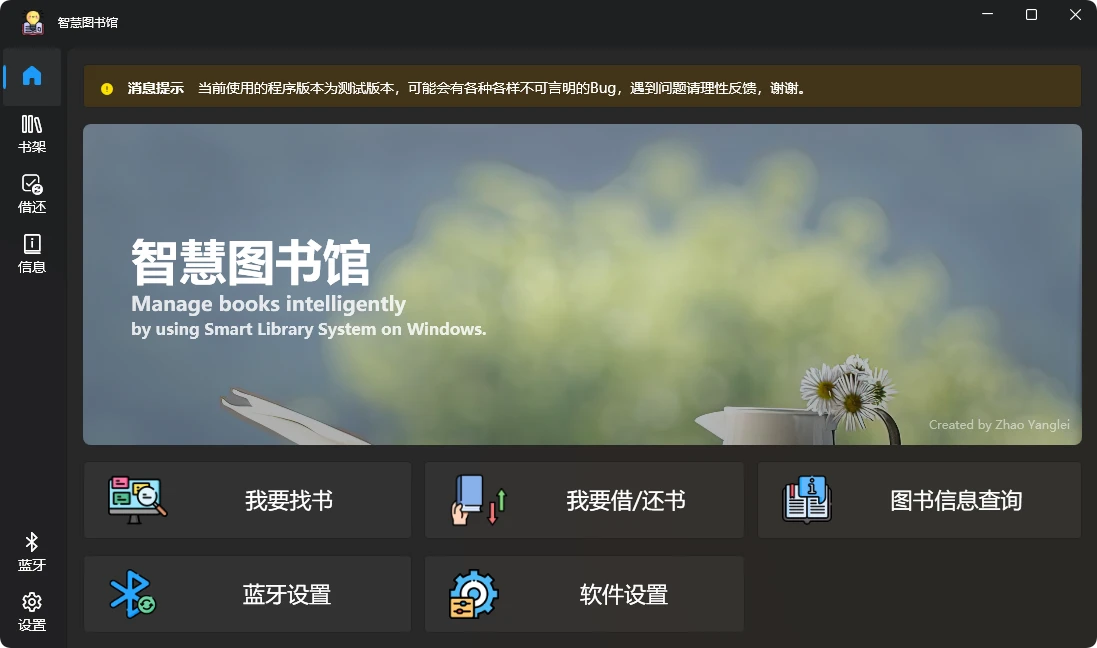
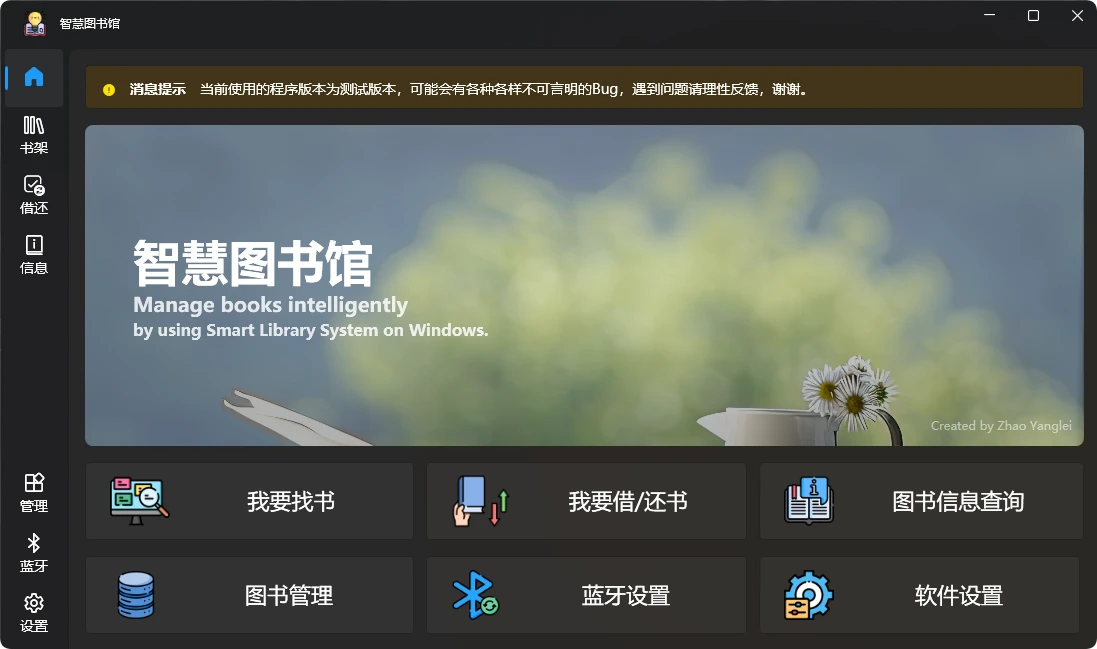
数据库完善

diff --git a/SmartLibrary/Views/Pages/BookManage.xaml b/SmartLibrary/Views/Pages/BookManage.xaml
@@ -117,6 +117,10 @@
                     <Setter Property="Background" Value="#FF6A4FBB" />
                     <Setter Property="Foreground" Value="#FFBDBDBD" />
                 </Trigger>
+                <Trigger Property="IsEnabled" Value="False">
+                    <Setter Property="Background" Value="#FF3B1B98" />
+                    <Setter Property="Foreground" Value="{DynamicResource TextFillColorDisabledBrush}" />
+                </Trigger>
             </Style.Triggers>
         </Style>
         <Style
@@ -173,11 +177,12 @@
             <ui:AutoSuggestBox
                 Grid.Column="0"
                 VerticalAlignment="Center"
+                IsEnabled="{Binding ViewModel.IsDBEnabled, Mode=OneWay}"
                 PlaceholderText="快速查找" />
             <ui:Button
                 Grid.Column="1"
                 Height="35"
-                Margin="8,0,0,0"
+                Margin="10,0,0,0"
                 VerticalAlignment="Center"
                 Command="{Binding ViewModel.TopButtonClickCommand, Mode=OneWay}"
                 CommandParameter="Import"
@@ -187,18 +192,20 @@
             <ui:Button
                 Grid.Column="2"
                 Height="35"
-                Margin="8,0,0,0"
+                Margin="10,0,0,0"
                 VerticalAlignment="Center"
                 Command="{Binding ViewModel.TopButtonClickCommand, Mode=OneWay}"
                 CommandParameter="Export"
                 Content="导出"
                 FontSize="18"
+                IsEnabled="{Binding ViewModel.IsDBEnabled, Mode=OneWay}"
                 ToolTip="导出数据库" />
             <ui:Button
                 x:Name="AddButton"
                 Grid.Column="3"
                 Margin="8,0,0,0"
                 Command="{Binding ViewModel.AddBookCommand, Mode=OneWay}"
+                IsEnabled="{Binding ViewModel.IsDBEnabled, Mode=OneWay}"
                 Style="{StaticResource AddButton}"
                 ToolTip="添加图书" />
             <ui:Button
@@ -311,6 +318,63 @@
                 </DataGridTemplateColumn>
             </ui:DataGrid.Columns>
         </ui:DataGrid>
+        <Grid Grid.Row="1" Visibility="{Binding ViewModel.MissingDatabase, Mode=OneWay, Converter={StaticResource BooleanToVisibilityConverter}}">
+            <StackPanel
+                Margin="0,0,0,20"
+                HorizontalAlignment="Center"
+                VerticalAlignment="Center">
+                <ui:Image
+                    Grid.Row="0"
+                    Width="168"
+                    Height="168"
+                    RenderOptions.BitmapScalingMode="HighQuality"
+                    Source="pack://application:,,,/Assets/warning.png" />
+                <ui:TextBlock
+                    Grid.Row="1"
+                    HorizontalAlignment="Center"
+                    FontSize="36"
+                    FontTypography="Title"
+                    Foreground="{DynamicResource TextFillColorSecondaryBrush}"
+                    Text="糟糕！数据库找不到了w(ﾟДﾟ)w" />
+                <StackPanel
+                    Margin="0,16,0,0"
+                    HorizontalAlignment="Center"
+                    Orientation="Horizontal">
+                    <ui:Button
+                        MinWidth="180"
+                        Margin="0,0,8,0"
+                        Command="{Binding ViewModel.RefreshDatabaseCommand, Mode=OneWay}"
+                        Content="刷新"
+                        FontSize="24" />
+                    <ui:Button
+                        MinWidth="180"
+                        Margin="8,0,0,0"
+                        Command="{Binding ViewModel.CreateDatabaseCommand, Mode=OneWay}"
+                        Content="新建"
+                        FontSize="24" />
+                </StackPanel>
+            </StackPanel>
+        </Grid>
+        <Grid Grid.Row="1" Visibility="{Binding ViewModel.DatabaseEmpty, Mode=OneWay, Converter={StaticResource BooleanToVisibilityConverter}}">
+            <StackPanel
+                Margin="0,0,0,8"
+                HorizontalAlignment="Center"
+                VerticalAlignment="Center">
+                <ui:Image
+                    Grid.Row="0"
+                    Width="148"
+                    Height="148"
+                    RenderOptions.BitmapScalingMode="HighQuality"
+                    Source="pack://application:,,,/Assets/databaseEmpty.png" />
+                <ui:TextBlock
+                    Grid.Row="1"
+                    Margin="0,12,0,0"
+                    FontSize="36"
+                    FontTypography="Title"
+                    Foreground="{DynamicResource TextFillColorSecondaryBrush}"
+                    Text="什么都没有┑(￣Д ￣)┍" />
+            </StackPanel>
+        </Grid>
         <Grid Grid.Row="2" Margin="0,12,0,0">
             <Grid.ColumnDefinitions>
                 <ColumnDefinition Width="*" />
@@ -349,6 +413,7 @@
                     Margin="4,0,4,0"
                     HorizontalAlignment="Center"
                     VerticalAlignment="Center"
+                    IsEnabled="{Binding ViewModel.IsTextboxEnabled, Mode=OneWay}"
                     ItemsSource="{Binding ViewModel.PageCountList, Mode=OneTime}"
                     SelectedIndex="{Binding ViewModel.CurrentIndex, Mode=TwoWay}" />
                 <ui:TextBlock
@@ -423,6 +488,7 @@
                     Height="32"
                     Margin="4,0,4,0"
                     InputMethod.IsInputMethodEnabled="False"
+                    IsEnabled="{Binding ViewModel.IsTextboxEnabled, Mode=OneWay}"
                     PreviewKeyDown="TextBox_PreviewKeyDown"
                     PreviewTextInput="Text_PreviewTextInput"
                     Text="{Binding ViewModel.TargetPage, Mode=TwoWay, UpdateSourceTrigger=PropertyChanged}" />

diff --git a/SmartLibrary/ViewModels/BookManageViewModel.cs b/SmartLibrary/ViewModels/BookManageViewModel.cs
@@ -17,8 +17,17 @@ namespace SmartLibrary.ViewModels
         private readonly INavigationService _navigationService;
         private readonly ISnackbarService _snackbarService;
         private readonly IContentDialogService _contentDialogService;
-        private readonly SQLiteHelper BooksDb = SQLiteHelper.GetDatabase("books.smartlibrary");
+        private SQLiteHelper BooksDb = SQLiteHelper.GetDatabase("books.smartlibrary");
         private int TotalPageCount;
+
+        [ObservableProperty]
+        private bool _missingDatabase = false;
+        [ObservableProperty]
+        private bool _databaseEmpty = false;
+        [ObservableProperty]
+        private bool _isDBEnabled = true;
+        [ObservableProperty]
+        private bool _isTextboxEnabled = true;
 
         [ObservableProperty]
         private bool _isDelButtonEnabled = false;
@@ -69,13 +78,40 @@ namespace SmartLibrary.ViewModels
             }
             else
             {
-
+                MissingDatabase = true;
+                IsDBEnabled = false;
+                IsTextboxEnabled = false;
             }
         }
 
         ~BookManageViewModel()
         {
             BooksDb.ExecutePagerCompleted -= ExecutePagerCompleted;
+        }
+
+        [RelayCommand]
+        private void RefreshDatabase()
+        {
+            BooksDb = SQLiteHelper.GetDatabase("books.smartlibrary");
+            if (SQLiteHelper.IsDatabaseConnected("books.smartlibrary"))
+            {
+                MissingDatabase = false;
+                IsDBEnabled = true;
+                BooksDb.ExecutePagerCompleted += ExecutePagerCompleted;
+                Refresh();
+                Pager();
+            }
+        }
+
+        [RelayCommand]
+        private void CreateDatabase()
+        {
+            BooksDb.CreateDataBase();
+            BooksDb = SQLiteHelper.GetDatabase("books.smartlibrary");
+            MissingDatabase = false;
+            IsDBEnabled = true;
+            BooksDb.ExecutePagerCompleted += ExecutePagerCompleted;
+            Refresh();
         }
 
         [RelayCommand]
@@ -98,6 +134,18 @@ namespace SmartLibrary.ViewModels
         private void Refresh()
         {
             TotalCount = BooksDb.GetRecordCount();
+            if (TotalCount == 0)
+            {
+                DatabaseEmpty = true;
+                IsTextboxEnabled = false;
+                TotalPageCount = 0;
+                return;
+            }
+            else
+            {
+                DatabaseEmpty = false;
+                IsTextboxEnabled = true;
+            }
             TotalPageCount = TotalCount / PageCountList[CurrentIndex] + ((TotalCount % PageCountList[CurrentIndex]) == 0 ? 0 : 1);
             if (CurrentPage > TotalPageCount) CurrentPage = TotalPageCount;
             if (TotalPageCount == 1) { IsPageUpEnabled = false; IsPageDownEnabled = false; return; }
@@ -173,6 +221,10 @@ namespace SmartLibrary.ViewModels
                 };
                 if (openFileDialog.ShowDialog() == true)
                 {
+                    if (!SQLiteHelper.IsDatabaseConnected("books.smartlibrary"))
+                    {
+                        CreateDatabase();
+                    }
                     int[] mergedResult = [0, 0];
                     string[] fileNames = openFileDialog.FileNames;
                     foreach (string fileName in fileNames)
@@ -283,17 +335,17 @@ namespace SmartLibrary.ViewModels
         {
             if (value > TotalPageCount)
             {
-                TargetPage = TotalPageCount;
-                FlyoutText = "输入页码超过最大页码！";
+                FlyoutText = $"输入页码超过最大页码！";
                 IsFlyoutOpen = true;
+                TargetPage = TotalPageCount;
             }
             else if (value == 0)
             {
-                TargetPage = 1;
                 FlyoutText = "最小页码为 1 ";
                 IsFlyoutOpen = true;
+                TargetPage = 1;
             }
-            else
+            else if (value > 0 && value < TotalPageCount)
             {
                 if (IsFlyoutOpen)
                 {

diff --git a/SmartLibrary/Helpers/Database.cs b/SmartLibrary/Helpers/Database.cs
@@ -61,8 +61,32 @@ namespace SmartLibrary.Helpers
         public void CreateDataBase()
         {
             string? path = Path.GetDirectoryName(DataSource);
-            if ((!string.IsNullOrWhiteSpace(path)) && (!Directory.Exists(path))) Directory.CreateDirectory(path);
-            if (!File.Exists(DataSource)) SQLiteConnection.CreateFile(DataSource);
+            if ((!string.IsNullOrWhiteSpace(path)) && (!Directory.Exists(path)))
+            {
+                Directory.CreateDirectory(path);
+            }
+            if (!File.Exists(DataSource))
+            {
+                SQLiteConnection.CreateFile(DataSource);
+                StringBuilder sbr = new();
+                sbr.AppendLine("CREATE TABLE IF NOT EXISTS 'main' (");
+                sbr.AppendLine("'isbn' TEXT PRIMARY KEY NOT NULL,");
+                sbr.AppendLine("'bookName' TEXT NOT NULL,");
+                sbr.AppendLine("'author' TEXT,");
+                sbr.AppendLine("'press' TEXT,");
+                sbr.AppendLine("'pressDate' TEXT,");
+                sbr.AppendLine("'pressPlace' TEXT,");
+                sbr.AppendLine("'price' INTEGER,");
+                sbr.AppendLine("'clcName' TEXT,");
+                sbr.AppendLine("'bookDesc' TEXT,");
+                sbr.AppendLine("'pages' TEXT,");
+                sbr.AppendLine("'words' TEXT,");
+                sbr.AppendLine("'shelfNumber' INTEGER NOT NULL,");
+                sbr.AppendLine("'isBorrowed' INTEGER NOT NULL DEFAULT 0,");
+                sbr.AppendLine("'picture' TEXT");
+                sbr.AppendLine(");");
+                ExecuteNonQuery(sbr.ToString());
+            }
         }
 
         /// <summary>
@@ -345,7 +369,7 @@ namespace SmartLibrary.Helpers
                 if (!Exists(isbn))
                 {
                     //string sqlStr = "INSERT INTO main VALUES (\"@isbn\",\"@bookName\",\"@author\",\"@press\",\"@pressDate\",\"@pressPlace\",@price,\"@clcName\",\"@bookDesc\",\"@pages\",\"@words\",@shelfNumber,@isBorrowed,\"@picture\")";
-                    string sqlStr = $"INSERT INTO main VALUES (\"{isbn}\",\"{reader.GetString(1)}\",\"{reader.GetString(2)}\",\"{reader.GetString(3)}\",\"{reader.GetString(4)}\",\"{reader.GetString(5)}\",@price,\"{reader.GetString(7)}\",\"{reader.GetString(8)}\",\"{reader.GetString(9)}\",\"{reader.GetString(10)}\",@shelfNumber,@isBorrowed,\"{reader.GetValue(13)}\")";
+                    string sqlStr = $"INSERT INTO main VALUES ('{isbn}','{reader.GetString(1)}','{reader.GetString(2)}','{reader.GetString(3)}','{reader.GetString(4)}','{reader.GetString(5)}',@price,'{reader.GetString(7)}','{reader.GetString(8)}','{reader.GetString(9)}','{reader.GetString(10)}',@shelfNumber,@isBorrowed,'{reader.GetValue(13)}')";
 
                     SQLiteParameter[] parameters = [
                         new SQLiteParameter("@price", reader.GetDouble(6)),

diff --git a/SmartLibrary/AssemblyInfo.cs b/SmartLibrary/AssemblyInfo.cs
@@ -1,3 +1,1 @@
-using System.Reflection;
-
 [assembly: ThemeInfo(ResourceDictionaryLocation.None, ResourceDictionaryLocation.SourceAssembly)]

diff --git a/README.md b/README.md
@@ -5,8 +5,9 @@
   Smart Library
 </h1>
 <p align="center">
-  一个基于Qt6和Arduino的智慧图书管理系统
+  一个基于WPF和Arduino的智慧图书管理系统
 </p>
+
 
 
 ## 简介
@@ -43,6 +44,10 @@
 <a href="https://www.flaticon.com/free-icons/refresh-data" title="refresh data icons">Refresh data icons created by Freepik - Flaticon</a>
 
 <a href="https://www.flaticon.com/free-icons/borrow" title="borrow icons">Borrow icons created by max.icons - Flaticon</a>
+
+<a href="https://www.flaticon.com/free-icons/database" title="database icons">Database icons created by Freepik - Flaticon</a>
+
+<a href="https://www.flaticon.com/free-icons/warning" title="warning icons">Warning icons created by Freepik - Flaticon</a>
 
 <a href="https://www.flaticon.com/free-icons/database" title="database icons">Database icons created by Freepik - Flaticon</a>
 
